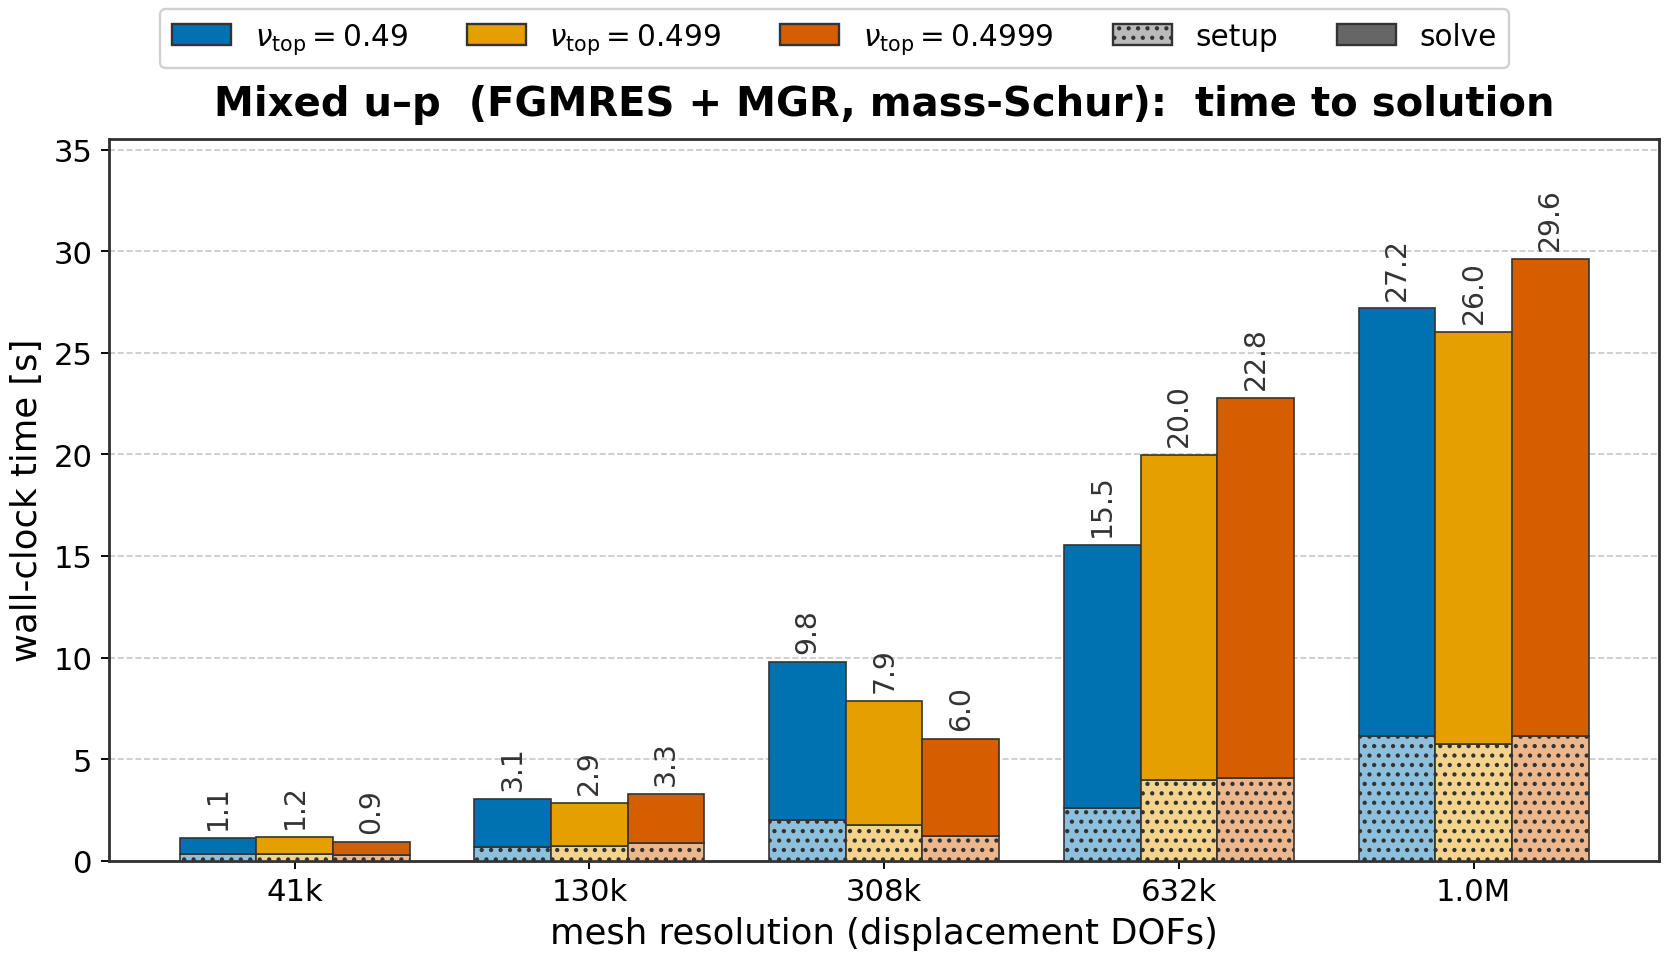
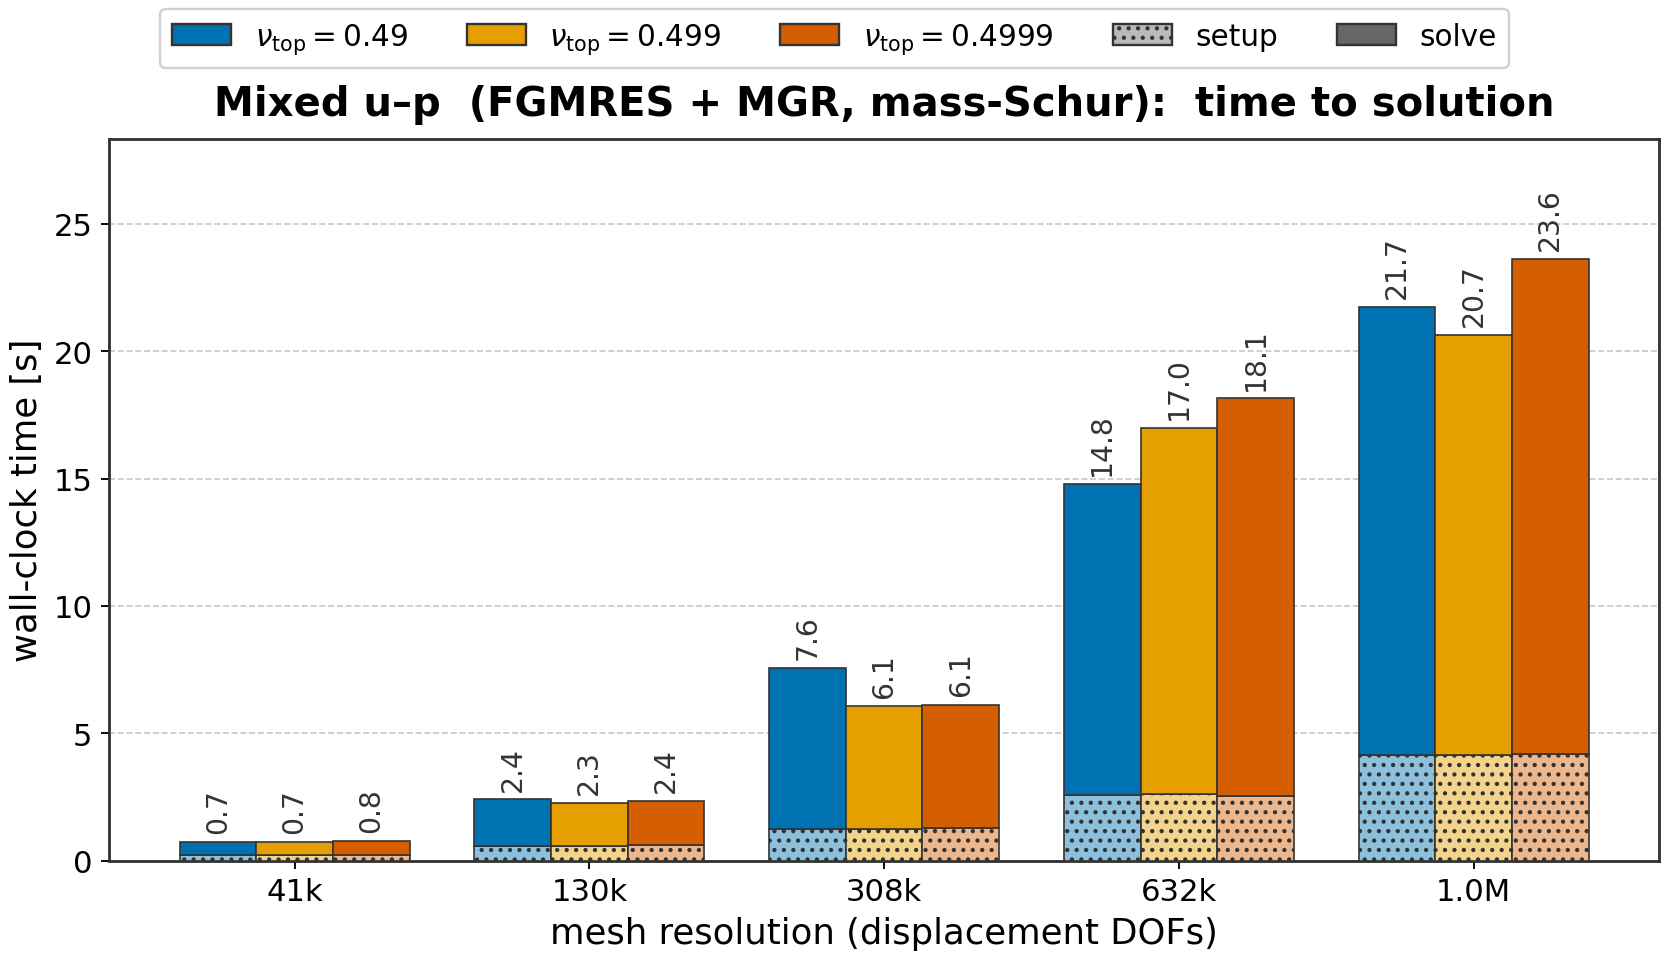
Re-measure the mixed u-p timings on an idle machine
The first sweep ran while the machine was loaded, inflating every wall-clock
number by up to a third. Iteration counts are deterministic and came out
identical, so only the timings and the figure change:

  setup share       17-30%  ->  14-34%
  41k -> 1M growth  22-31x  ->  28-30x
  GM2 vs plain      42/29s vs 81/34s  ->  42/24s vs 81/27s

Load was sampled throughout the rerun and no process outside the solve competed
for CPU.

diff --git a/docs/usrman-src/library_examples.rst b/docs/usrman-src/library_examples.rst
@@ -1505,7 +1505,7 @@ which MGR supplies automatically, restricted to the F-points. The block uses the
 (operator complexity :math:`\approx 2`) *and* make it nearly mesh-independent, so the
 outer FGMRES count grows only mildly with mesh size -- at below-baseline cost (at
 :math:`10^6` DOFs, :math:`\nu_{\text{top}}{=}0.4999` on 16 ranks: 42 iterations /
-29 s, versus a single plain V-cycle's 81 / 34). For the coarse
+24 s, versus a single plain V-cycle's 81 / 27). For the coarse
 (pressure) block, MGR is handed the scaled pressure-mass Schur
 :math:`\hat S = (\tfrac{1}{2\mu}+\tfrac{1}{\lambda})\,M_p` via
 ``coarse_level_type: user`` (``HYPRE_MGRSetCoarseGridMatrixAtLevel``) instead of forming
@@ -1647,21 +1647,22 @@ solves.
    Mixed u-p time to solution vs mesh resolution, one stacked bar per
    :math:`\nu_{\text{top}}` (16 ranks, ``-P 4 2 2``). The hatched lower segment is
    the MGR setup and the solid upper segment is the FGMRES solve; the bar height is
-   their sum. Setup accounts for 17-30% of the total, and -- like the iteration
+   their sum. Setup accounts for 14-34% of the total, and -- like the iteration
    count -- neither segment grows appreciably as
    :math:`\nu_{\text{top}} \to 1/2`.
 
 Two things are worth reading off this figure. First, cost scales with problem size
 rather than with :math:`\nu_{\text{top}}`: 41k to :math:`10^6` DOFs is a 25-fold
-increase in unknowns and a 22-31x increase in time, so the solver stays close to
-linear in the DOF count, while the spread across the three Poisson ratios at a fixed
-size stays small. That is the wall-clock counterpart of the bounded iteration counts
-above -- :math:`\lambda` robustness in the preconditioner shows up as
-:math:`\lambda` robustness in the runtime.
+increase in unknowns and a 28-30x increase in time -- close to linear in the DOF
+count -- while the spread across the three Poisson ratios at a fixed size stays
+small. That is the wall-clock counterpart of the bounded iteration counts above --
+:math:`\lambda` robustness in the preconditioner shows up as :math:`\lambda`
+robustness in the runtime.
 
 Second, the setup fraction bounds what preconditioner reuse can buy here. Setup is
-17-30% of the time to solution, so a nonlinear or time-stepping loop that rebuilds
-the operator but reuses the MGR hierarchy saves at most about that much per solve --
+14-34% of the time to solution -- about a third at the smallest size, under a fifth
+at the largest -- so a nonlinear or time-stepping loop that rebuilds the operator
+but reuses the MGR hierarchy saves at most about that much per solve. That is
 worthwhile, but a smaller lever than in the single-material RBM study above, where
 the GM2 setup is expensive enough to offset its own iteration savings on a single
 solve. See :ref:`Preconditioner reuse <PreconReuse>` for the reuse policies.
